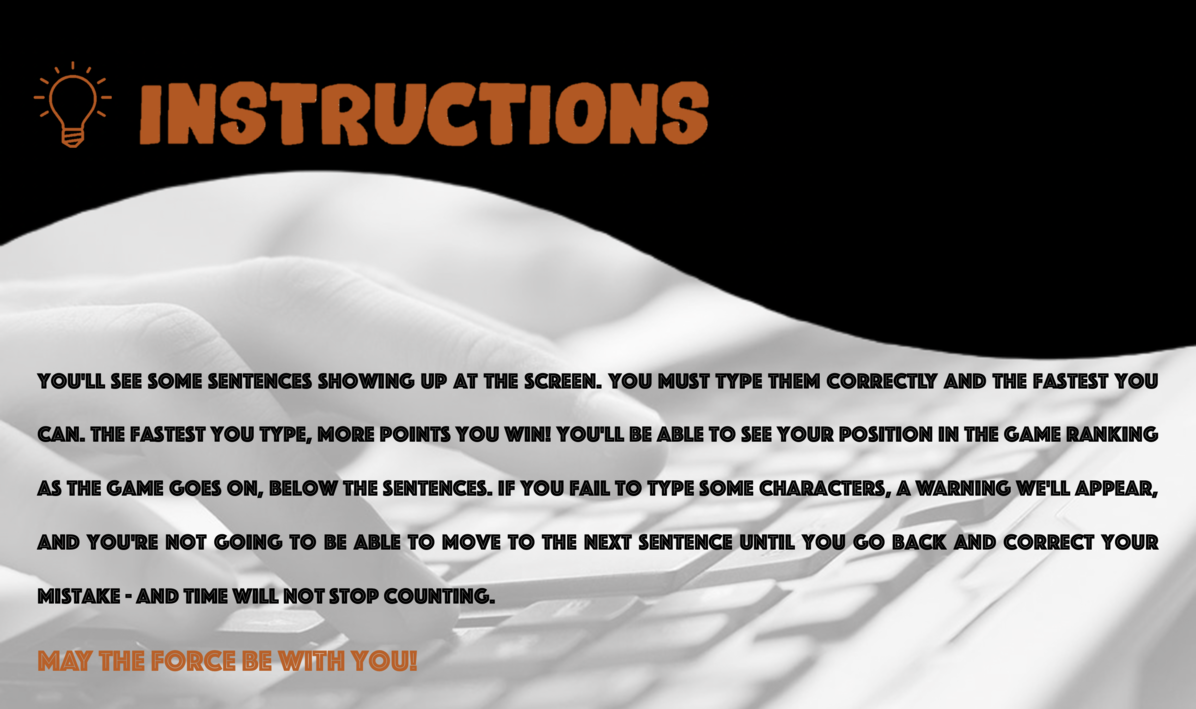
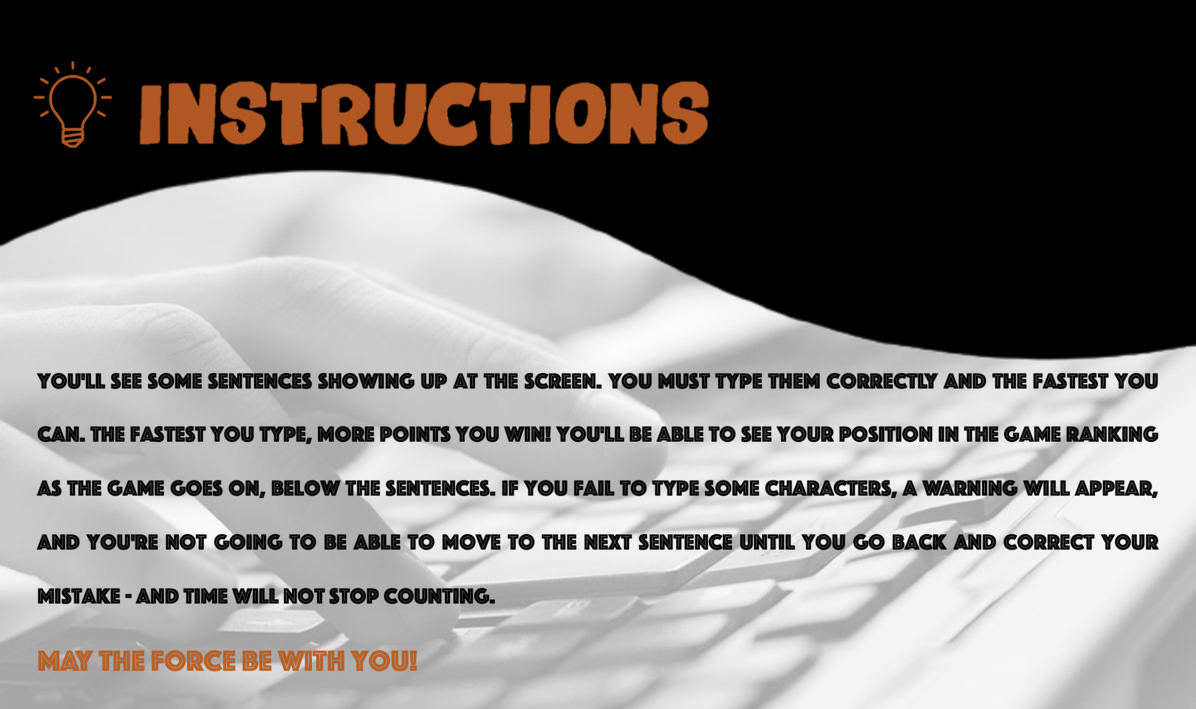
Changed the text on the view - corrected 'we'll' to 'will'

Changed region(s): [[0.0619, 0.6516, 0.8972, 0.7137]]

diff --git a/src/main/java/org/academiadecodigo/speedTyper/Text/Instructions.java b/src/main/java/org/academiadecodigo/speedTyper/Text/Instructions.java
@@ -4,7 +4,7 @@ public class Instructions {
 
     public final static String INSTRUCTIONS="You'll see some sentences showing up at the screen. You must type them correctly and the fastest you can. \n" +
             "The fastest you type, more points you win! You'll be able to see your position in the game ranking as the game goes on, \n" +
-            "below the sentences. If you fail to type some characters, a warning we'll appear, and you're not going to be bale to move \n" +
+            "below the sentences. If you fail to type some characters, a warning will appear, and you're not going to be bale to move \n" +
             "to the next sentence until you go back and correct your mistake - and time will not stop counting.\n" +
             "May the force be with you!";
 }
